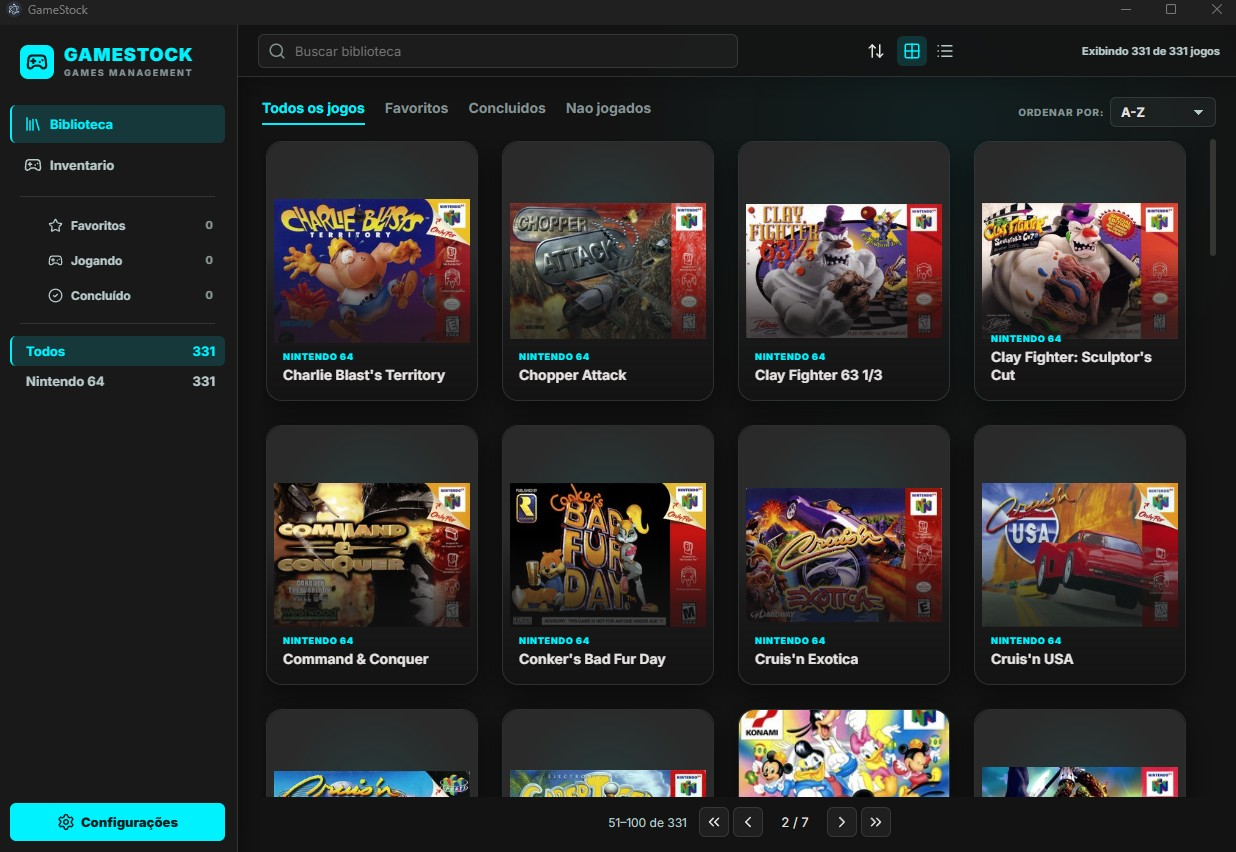
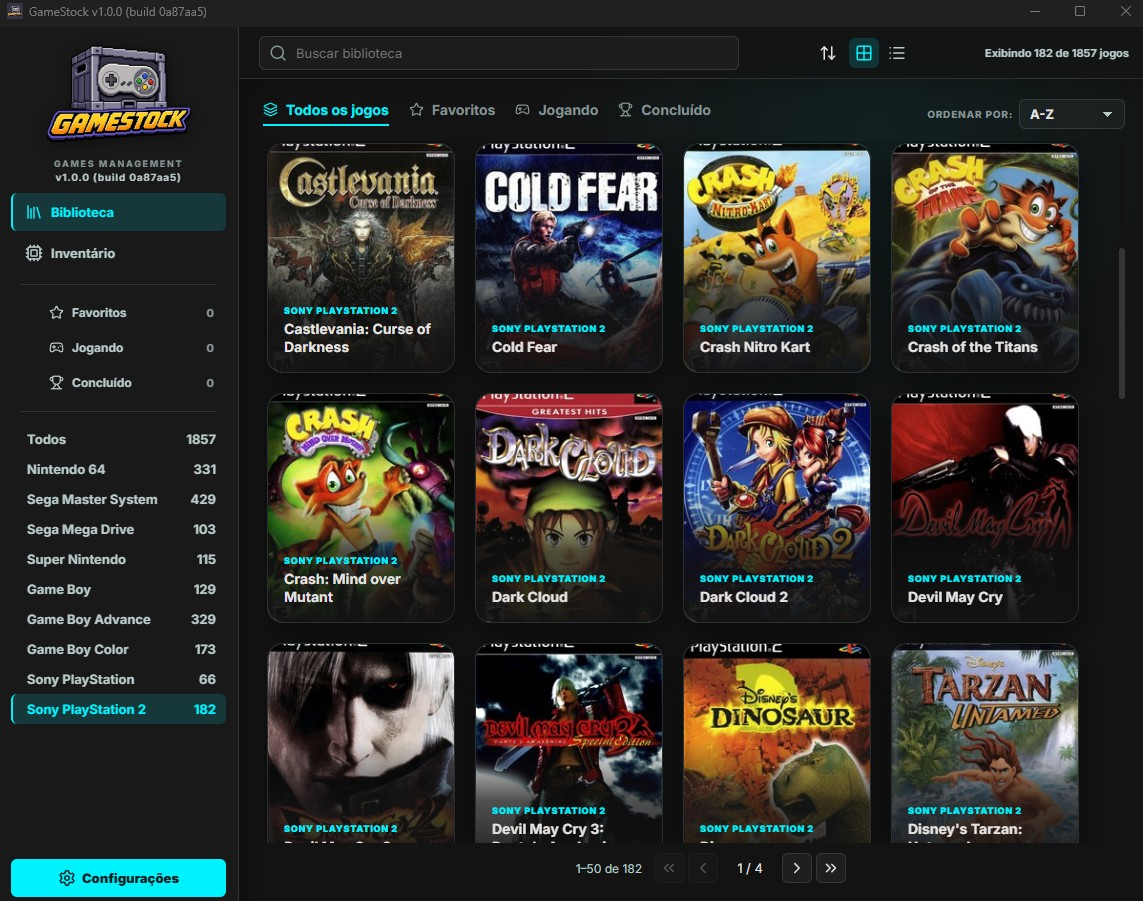
alterado screenshot e readme

diff --git a/src/shared/build-meta.ts b/src/shared/build-meta.ts
@@ -4,14 +4,14 @@
  * Este arquivo é atualizado por `npm run sync:build-meta`.
  * Não editar manualmente, porque mudanças serão sobrescritas no próximo build.
  *
- * Gerado em: 2026-05-22T04:40:40.761Z
+ * Gerado em: 2026-05-22T04:45:36.688Z
  */
 
 /** Versão semântica base lida do package.json. */
 export const APP_SEMVER = "1.0.0";
 
 /** Hash curto do commit usado nesta build, ou string vazia quando indisponível. */
-export const APP_BUILD_COMMIT = "af8ea8e";
+export const APP_BUILD_COMMIT = "0a87aa5";
 
 /** Versão completa exibida na UI, incluindo metadado de build quando existir. */
-export const APP_VERSION_LABEL = "1.0.0 (build af8ea8e)";
+export const APP_VERSION_LABEL = "1.0.0 (build 0a87aa5)";

diff --git a/README.md b/README.md
@@ -2,9 +2,17 @@
 
 GameStock e um aplicativo desktop para Windows para organizar bibliotecas de jogos retro, ROMs, capas, metadados e inventario fisico. O app roda com Electron, React, TypeScript, Vite e SQLite local via `better-sqlite3`.
 
+## Capturas de tela
+
 ![Biblioteca principal](screenshot/principal.jpg)
 
-![Detalhe do jogo](screenshot/game-detail.jpg)
+![Detalhe do jogo](screenshot/detail.jpg)
+
+![Inventario fisico](screenshot/inventario.jpg)
+
+![Formulario do inventario fisico](screenshot/inventario-form.jpg)
+
+![Backup e portabilidade de dados](screenshot/backup.jpg)
 
 ## Funcionalidades
 
